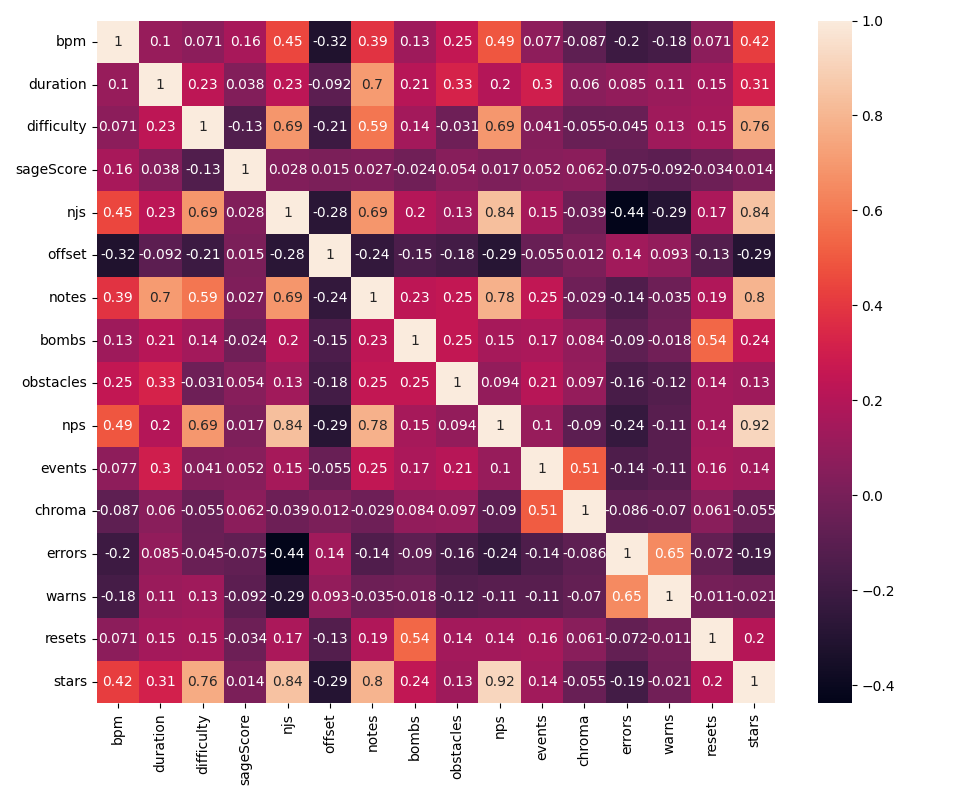
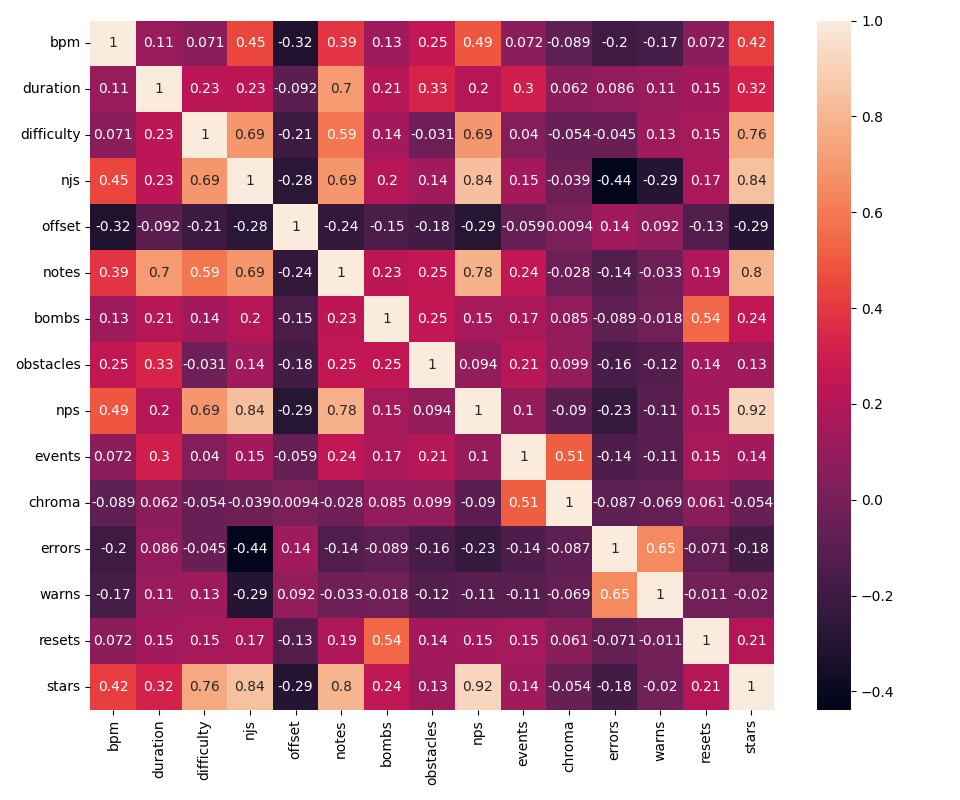
モデルに標準化処理を取り込んだうえでonnx形式のモデルも出力するようにした Close #1

diff --git a/main.py b/main.py
@@ -15,17 +15,17 @@ from sklearn.neural_network import MLPRegressor
 githubEndpoint = "https://api.github.com/repos/rakkyo150/RankedMapData/releases/latest"
 headers = {'Authorization': f'token {os.environ["GITHUB_TOKEN"]}'}
 githubResponse = requests.get(url=githubEndpoint, headers=headers)
+# For local run, uncomment below code
+# githubResponse = requests.get(url=githubEndpoint)
 releaseJson = githubResponse.json()
 secondHeaders = {'Accept': 'application/octet-stream'}
 csvResponse = requests.get(url=releaseJson["assets"][0]["browser_download_url"],
                            headers=secondHeaders)
 df = pd.read_csv(io.BytesIO(csvResponse.content), sep=",", index_col=0, encoding="utf-8")
 
-# For local run
-# df=pd.read_csv("outcome.csv",index_col=0,encoding="utf-8")
 
 # 必要なカラムを選択
-df = df[['bpm', 'duration', 'difficulty', 'sageScore', 'njs',
+df = df[['bpm', 'duration', 'difficulty', 'njs',
          'offset', 'notes', 'bombs', 'obstacles', 'nps', 'events', 'chroma', 'errors', 'warns',
          'resets', 'stars']]
 
@@ -78,20 +78,6 @@ x_train_val, x_test, t_train_val, t_test = train_test_split(x, t, test_size=0.2,
 
 print(x_test.shape)
 
-# 標準化
-from sklearn.preprocessing import StandardScaler
-
-standardScaler = StandardScaler()
-normalized_x_train_val = standardScaler.fit_transform(x_train_val)
-
-print(standardScaler.mean_)
-print(standardScaler.var_)
-normalized_x_test = (x_test - standardScaler.mean_) / np.sqrt(standardScaler.var_)
-
-with open('./standardScaler.pickle', mode='wb') as f:
-    pickle.dump(standardScaler, f)
-
-# 学習
 # model=MLPRegressor(random_state=0,max_iter=10000)
 # train score: 0.9634951347836535
 # test score: 0.9373156381840932
@@ -100,27 +86,34 @@ with open('./standardScaler.pickle', mode='wb') as f:
 # "trainScore": 0.8958441039360735
 # "testScore": 0.9074964858127781
 
-# 学習ではRMSEを指標にしてるっぽい
-estimator = MLPRegressor(random_state=0, max_iter=1000, solver="adam", activation="relu",
-                         verbose=True)
+from sklearn.preprocessing import StandardScaler
+from sklearn.pipeline import Pipeline
+
+pipe = Pipeline(steps=[("standard_scaler",StandardScaler()),
+                       ("estimator", MLPRegressor(random_state=0, max_iter=1000, solver="adam",
+                        activation="relu", verbose=True))])
+from sklearn import set_config
+set_config(display='diagram')
+print(pipe)
+
 param_grid = [{
-    'solver': ['sgd'],
-    'max_iter': [1000],
-    'hidden_layer_sizes': [1500],
+    'estimator__solver': ['sgd'],
+    'estimator__max_iter': [1000],
+    'estimator__hidden_layer_sizes': [1500],
 }]
 cv = 5
-tuned_model = GridSearchCV(estimator=estimator,
+tuned_model = GridSearchCV(estimator=pipe,
                            param_grid=param_grid,
                            cv=cv,
                            return_train_score=False)
 
-tuned_model.fit(normalized_x_train_val, t_train_val)
+tuned_model.fit(x_train_val,t_train_val)
 
 print(tuned_model.best_params_)
 model = tuned_model.best_estimator_
 
-train_pred = model.predict(normalized_x_train_val)
-pred = model.predict(normalized_x_test)
+train_pred = model.predict(x_train_val)
+pred = model.predict(x_test)
 
 # old bad way
 # train RMSE: 0.5417871476868293
@@ -130,8 +123,8 @@ pred = model.predict(normalized_x_test)
 
 print(f'train RMSE: {np.sqrt(mean_squared_error(t_train_val, train_pred))}')
 print(f'test RMSE: {np.sqrt(mean_squared_error(t_test, pred))}')
-print(f'train score: {model.score(normalized_x_train_val, t_train_val)}')
-print(f'test score: {model.score(normalized_x_test, t_test)}')
+print(f'train score: {model.score(x_train_val, t_train_val)}')
+print(f'test score: {model.score(x_test, t_test)}')
 
 # new appropriate way
 # train RMSE: 0.6312606845960649
@@ -147,8 +140,8 @@ for i in range(t_test.shape[0]):
 str = {
     'Train RMSE': np.sqrt(mean_squared_error(t_train_val, train_pred)),
     'Test RMSE': np.sqrt(mean_squared_error(t_test, pred)),
-    "Train Score": model.score(normalized_x_train_val, t_train_val),
-    "Test Score": model.score(normalized_x_test, t_test)
+    "Train Score": model.score(x_train_val, t_train_val),
+    "Test Score": model.score(x_test, t_test)
 }
 with open('./modelEvaluation.json', mode='w') as f:
     json.dump(str, f, indent=4)
@@ -166,3 +159,41 @@ with open('./model.pickle', mode='wb') as f:
 import image_maker
 image_maker.json_to_png_for_describe('describe.json')
 image_maker.json_to_png_for_evaluation('modelEvaluation.json')
+
+with open('./model.pickle', mode='rb') as f:
+    model = pickle.load(f)
+
+# Start to convert pickle into ONNX format
+from skl2onnx import to_onnx
+onx = to_onnx(model, np.array(x_train_val)[1:])
+
+with open("model.onnx", "wb") as f:
+    f.write(onx.SerializeToString())
+
+import onnxruntime as rt
+sess = rt.InferenceSession("model.onnx")
+
+"""
+input_name = sess.get_inputs()[0].name
+print("Input name  :", input_name)
+input_shape = sess.get_inputs()[0].shape
+print("Input shape :", input_shape)
+input_type = sess.get_inputs()[0].type
+print("Input type  :", input_type)
+output_name = sess.get_outputs()[0].name
+print("Output name  :", output_name)
+output_shape = sess.get_outputs()[0].shape
+print("Output shape :", output_shape)
+output_type = sess.get_outputs()[0].type
+print("Output type  :", output_type)
+"""
+
+input_name = sess.get_inputs()[0].name
+output_name = sess.get_outputs()[0].name
+
+print(x_train_val[0])
+convert_test_data = [x_train_val[0]]
+print("Test input : " + convert_test_data)
+print("Pickle output : " + model.predict(convert_test_data))
+b=sess.run([output_name], {input_name: convert_test_data})
+print("Onnx output : " + b[0])
